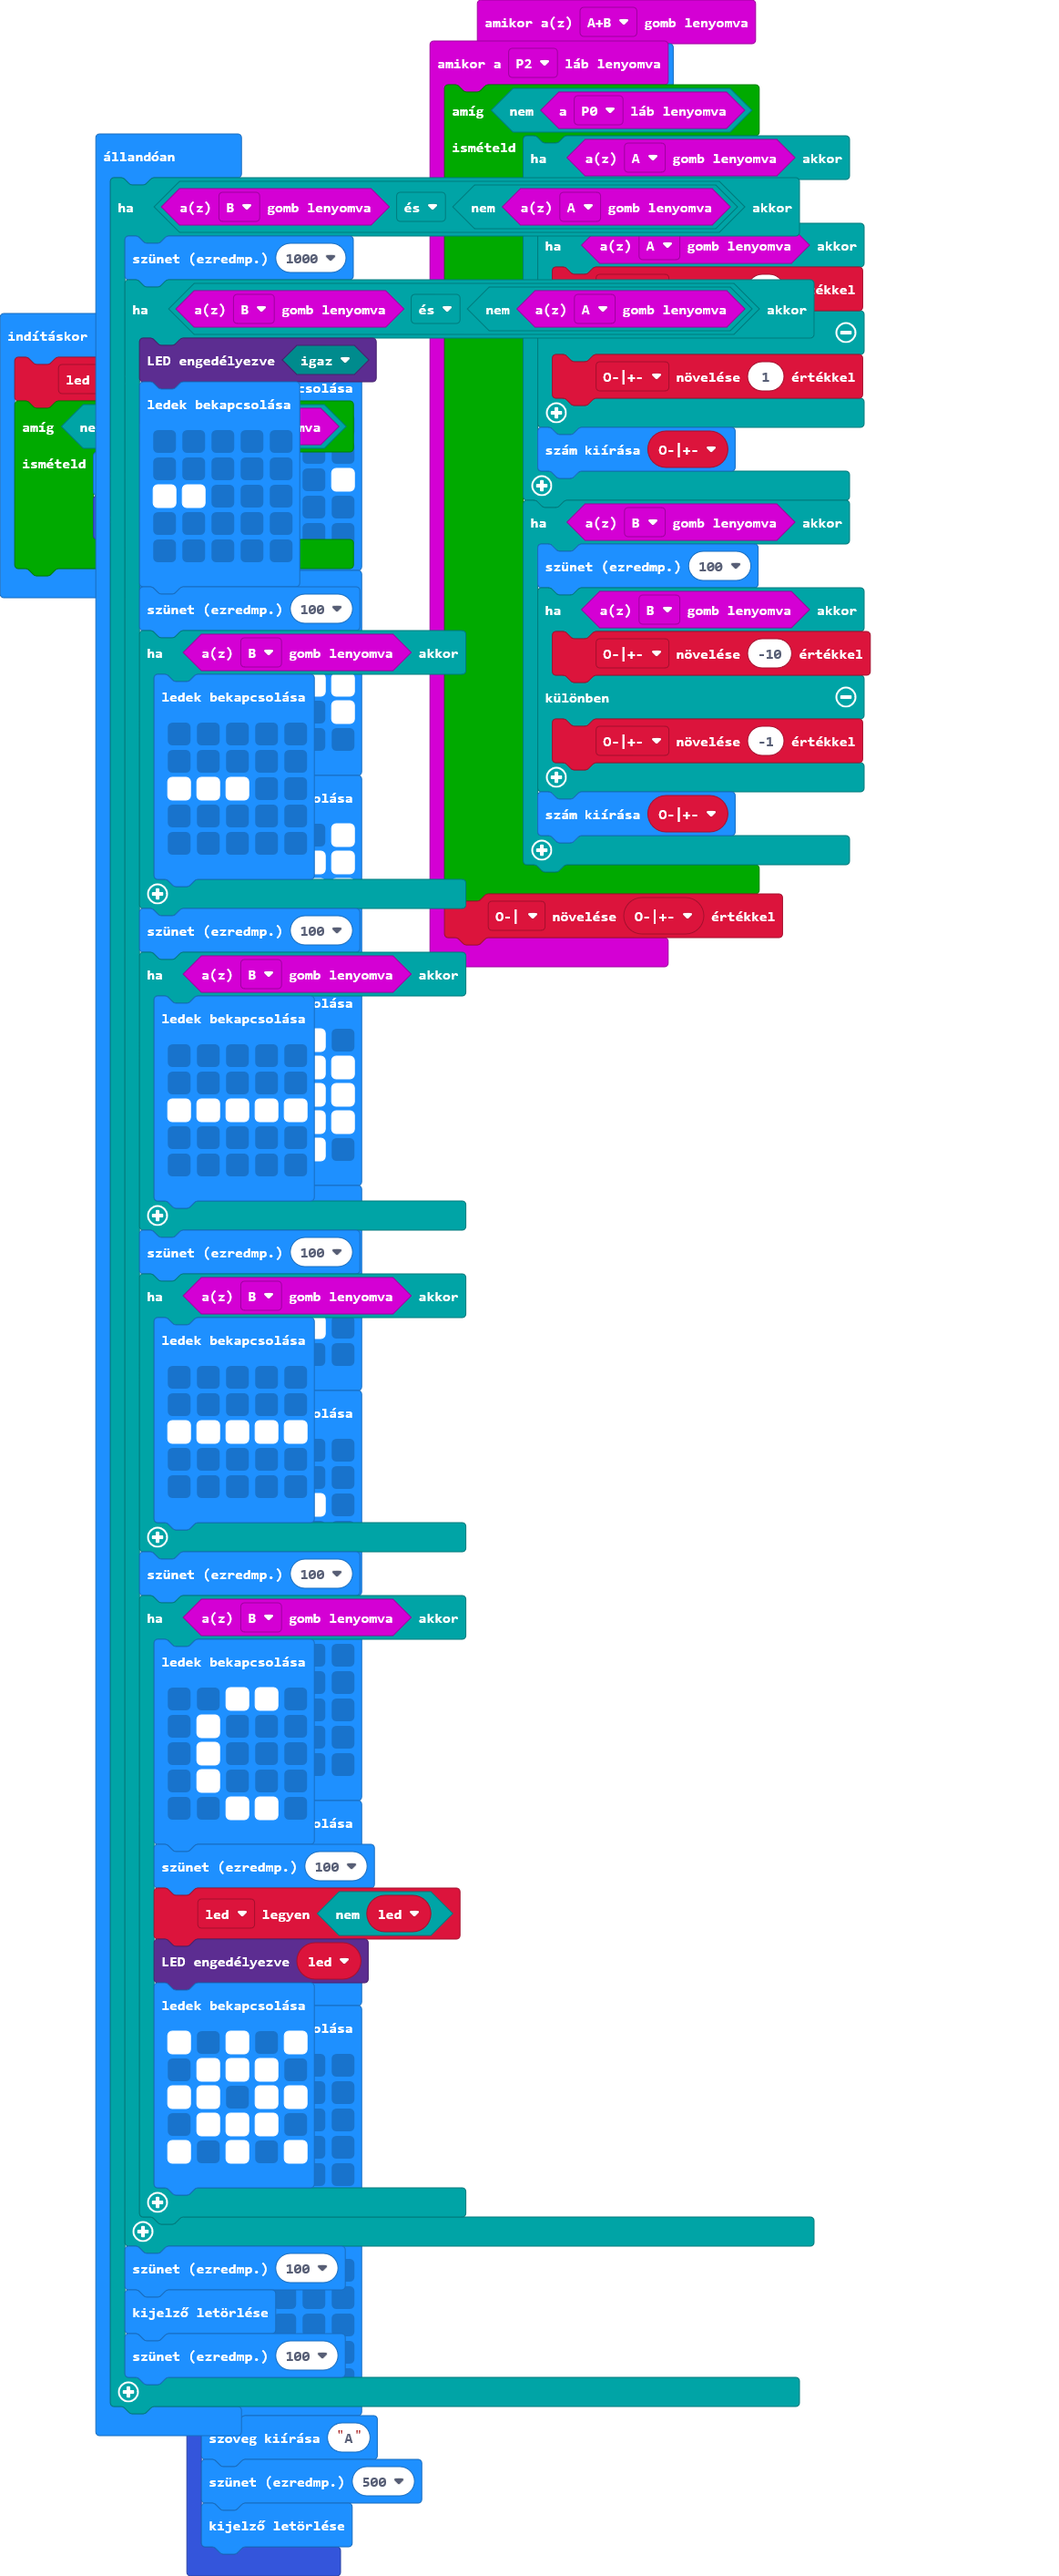
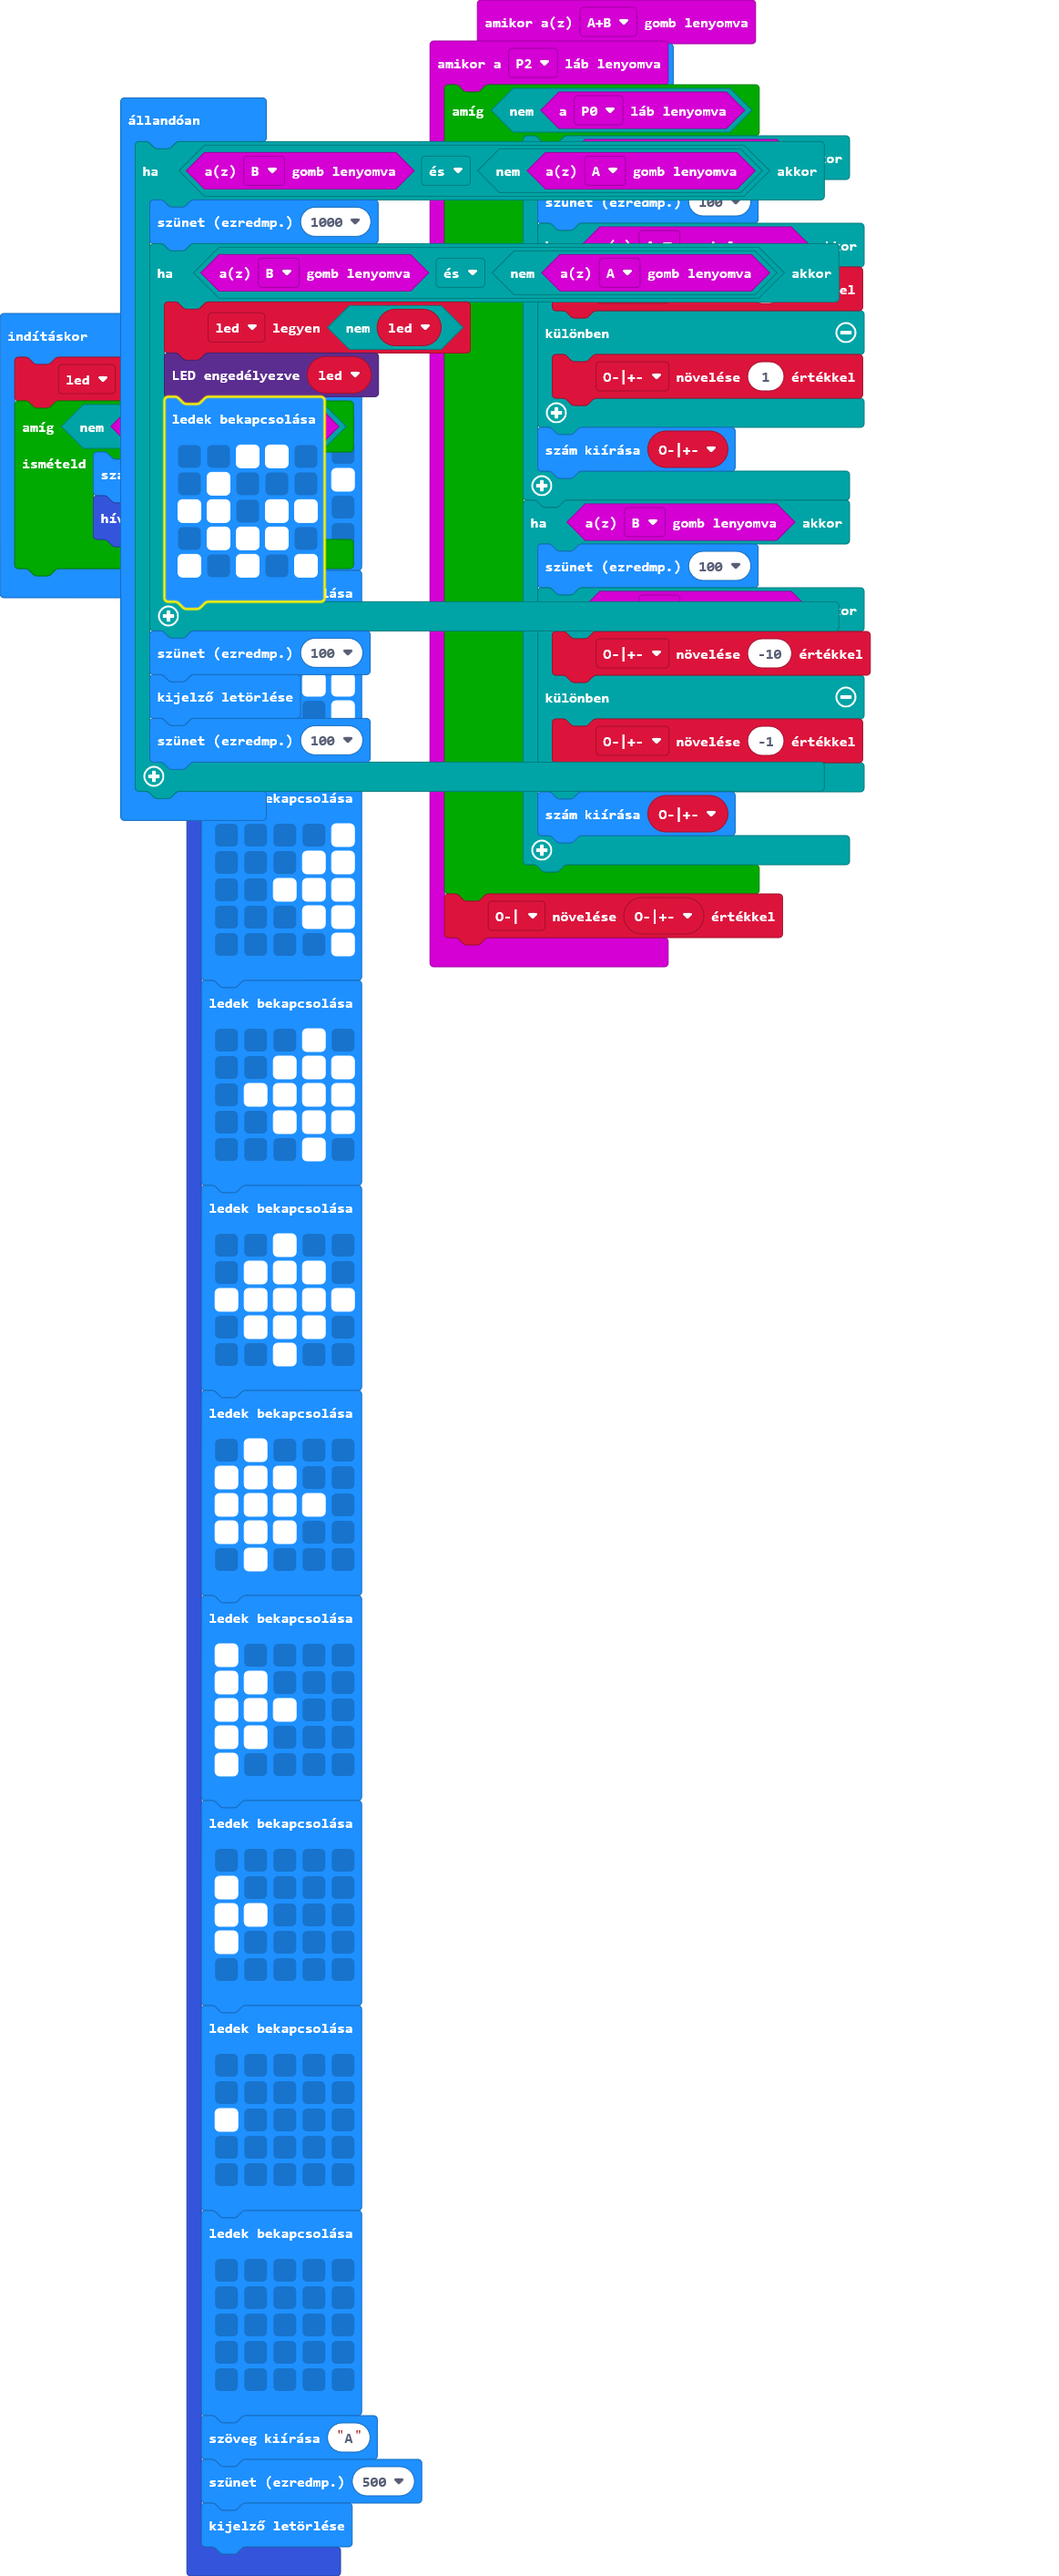
Update main.blocks, main.ts

Changed region(s): [[0.0619, 0.0311, 0.8048, 0.965], [0.5572, 0.2179, 0.7739, 0.249], [0.5262, 0.2802, 0.5572, 0.3113]]

diff --git a/main.ts b/main.ts
@@ -112,64 +112,15 @@ basic.forever(function () {
     if (input.buttonIsPressed(Button.B) && !(input.buttonIsPressed(Button.A))) {
         basic.pause(1000)
         if (input.buttonIsPressed(Button.B) && !(input.buttonIsPressed(Button.A))) {
-            led.enable(true)
+            led2 = !(led2)
+            led.enable(led2)
             basic.showLeds(`
-                . . . . .
-                . . . . .
-                # # . . .
-                . . . . .
-                . . . . .
+                . . # # .
+                . # . . .
+                # # . # #
+                . # # # .
+                # . # . #
                 `)
-            basic.pause(100)
-            if (input.buttonIsPressed(Button.B)) {
-                basic.showLeds(`
-                    . . . . .
-                    . . . . .
-                    # # # . .
-                    . . . . .
-                    . . . . .
-                    `)
-            }
-            basic.pause(100)
-            if (input.buttonIsPressed(Button.B)) {
-                basic.showLeds(`
-                    . . . . .
-                    . . . . .
-                    # # # # #
-                    . . . . .
-                    . . . . .
-                    `)
-            }
-            basic.pause(100)
-            if (input.buttonIsPressed(Button.B)) {
-                basic.showLeds(`
-                    . . . . .
-                    . . . . .
-                    # # # # #
-                    . . . . .
-                    . . . . .
-                    `)
-            }
-            basic.pause(100)
-            if (input.buttonIsPressed(Button.B)) {
-                basic.showLeds(`
-                    . . # # .
-                    . # . . .
-                    . # . . .
-                    . # . . .
-                    . . # # .
-                    `)
-                basic.pause(100)
-                led2 = !(led2)
-                led.enable(led2)
-                basic.showLeds(`
-                    # . # . #
-                    . # # # .
-                    # # . # #
-                    . # # # .
-                    # . # . #
-                    `)
-            }
         }
         basic.pause(100)
         basic.clearScreen()
